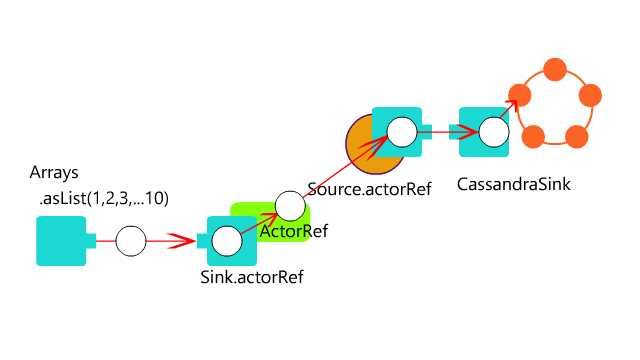
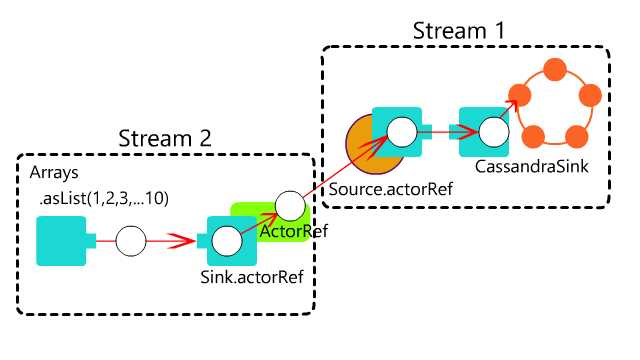
Refine the example 2

diff --git a/README.md b/README.md
@@ -424,6 +424,7 @@ You can use `Source.actorRef` to connect a `Sink` to an `Actor`,
 ```java
 final Source<UserComment, ActorRef> source = Source.actorRef(4, OverflowStrategy.fail());
 
+// Stream 1
 final ActorRef actorRef =
   source
   .to(cassandraSink)  //to() takes the left materialized value, (i.e.) source's ActorRef
@@ -435,6 +436,7 @@ and pass this `ActorRef` to provide input from whatever data source you like.
 ![CassandraSinkExample2](CassandraSinkExample2.jpg)
 
 ```java
+// Stream 2
 Source.from(Arrays.asList(1, 2, 3, 4, 5, 6, 7, 8, 9, 10))
   // throttling the stream so that the Source.actorRef() does not overflow
   .throttle(1, Duration.of(50, ChronoUnit.MILLIS))
